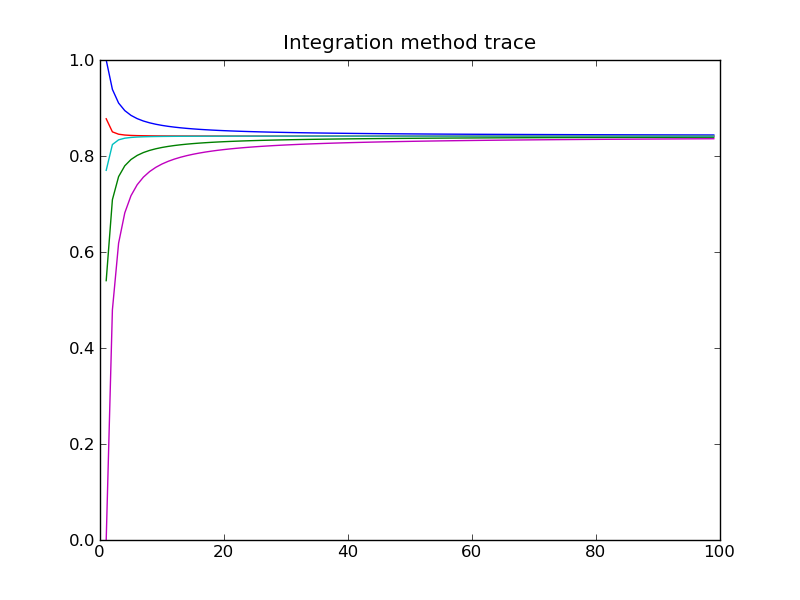
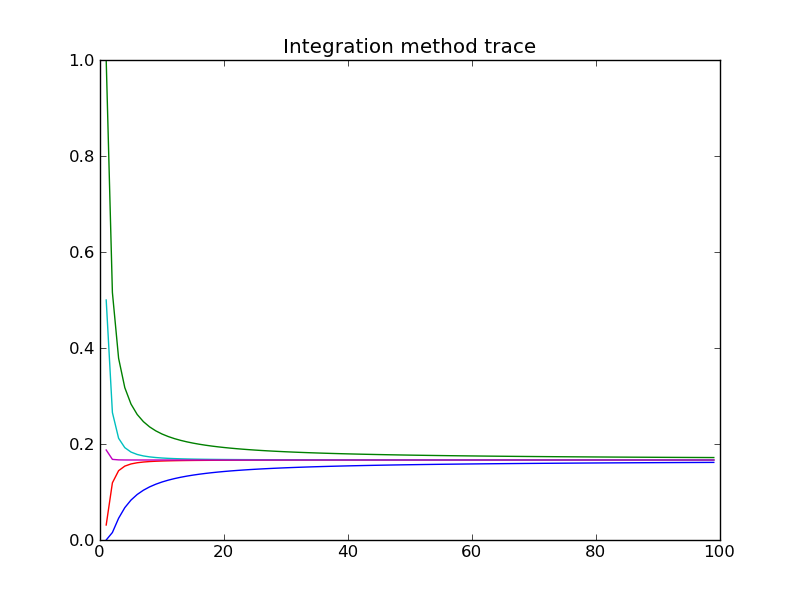
Amélioration des tests pour l'intégration

Changed region(s): [[0.125, 0.12, 0.9062, 0.9], [0.3438, 0.06, 0.6875, 0.09]]

diff --git a/src/integration.py b/src/integration.py
@@ -1,3 +1,5 @@
+# -*- coding:utf-8 -*-
+
 import numpy as np
 import scipy as sp
 import pylab as mp
@@ -5,7 +7,7 @@ import pylab as mp
 
 
 #------------------------------------------------#
-# FUNCTIONS :                                    #
+# FUNCTIONS WITH NUMBER OF POINTS :              #
 #------------------------------------------------#
 
 
@@ -49,22 +51,108 @@ def trapez_method(f, a, b, n):
 def simpson(f, a, b, n):
     h = (b - a)/n
     add = 0.
-    for k in np.arange(1,n):
+    for k in np.arange(1,n+1):
         add += (1./6.)*f(a+(k-1.)*h) + (2./3.)*f(a+(k-0.5)*h) + (1./6.)*(f(a+k*h))
     add *= h
     return add
 
 #------------------------------------------------#
+# FUNCTIONS WITH PRECISION :                     #
+#------------------------------------------------#
+
+def rectangle_method_left_eps(f, a, b, e):
+    
+    n = 1
+    h = (b - a)
+    I = f(a) * h
+    
+    I2n = I+1.
+    
+    while (abs(I2n - I) > e):
+        mem = I2n
+        I2n = 0.
+        for k in np.arange(0.,n):
+            I2n += f(a + k*h + h/2.)
+        h = h/2.
+        I2n *= h
+        I2n += I/2.
+        I = mem
+        n *= 2
+
+    print "N =", n
+    return I2n
+
+def rectangle_method_right_eps(f, a, b, e):
+    
+    n = 1
+    h = (b - a)
+    I = f(a) * h
+    
+    I2n = I+1.
+    
+    while (abs(I2n - I) > e):
+        mem = I2n
+        I2n = 0.
+        for k in np.arange(1,n+1):
+            I2n += f(a + k*h + h/2.)
+        h = h/2.
+        I2n *= h
+        I2n += I/2.
+        I = mem
+        n *= 2
+
+    print "N =", n
+    return I2n
+
+def rectangle_method_middle_eps(f, a, b, e):
+    
+    n = 1
+    h = (b - a)
+    I = f((b+a)/2) * h
+    
+    I2n = I+1.
+    
+    while (abs(I2n - I) > e):
+        mem = I2n
+        I2n = 0.
+        for k in np.arange(0.,n):
+            I2n += f(a + k*h + h/6.) + f(a + k*h + (5.*h)/6.)
+        h = h/3.
+        I2n *= h
+        I2n += I/3.
+        I = mem
+        n *= 3
+
+    print "N =", n
+    return I2n
+
+
+
+#------------------------------------------------#
 # TESTS :                                        #
 #------------------------------------------------#
 
-f = lambda(x): np.sqrt(1-np.sin(x)**2)
+#f = lambda(x): np.sqrt(1-x**2)
+f = lambda(x): x**5
+a = -0.5
+b = 1.
 
-print rectangle_method_left(f, 0., 1., 10.)
-print rectangle_method_right(f, 0., 1., 10.)
-print rectangle_method_middle(f, 0., 1., 10.)
-print trapez_method(f, 0., 1., 10.)
-print simpson(f, 0., 1., 10.)
+#real_value = np.pi/2
+real_value = (b**6/6. - a**6/6.)
+
+n = 1000.
+
+print "Valeur théorique :", real_value
+print rectangle_method_left(f, a, b, n)
+print rectangle_method_right(f, a, b, n)
+print rectangle_method_middle(f, a, b, n)
+print trapez_method(f, a, b, n)
+print simpson(f, a, b, n)
+
+eps = 1e-2
+#print "Méthode des rectangles (gauche) avec l'erreur :", rectangle_method_left_eps(f, a, b, eps)
+#print "Méthode des rectangles (droite) avec l'erreur :", rectangle_method_right_eps(f, a, b, eps)
+#print "Méthode des rectangles (milieu) avec l'erreur :", rectangle_method_middle_eps(f, a, b, eps)
 
 
 #------------------------------------------------#
@@ -105,6 +193,29 @@ def trace_integrals(f, a, b, nmax, l_fcts):
     mp.clf()
 
 
+def trace_errors(f, a, b, nmax, l_fcts, l_labels, real_value):
+    n = np.arange(2., nmax, 1.)
+    m = len(l_fcts)
+    errors = range(0)
+    
+    for k in np.arange(m):
+        errors.append(np.arange(nmax-2))
+        for j in np.arange(nmax-2):
+            errors[k][j] = abs(l_fcts[k](f, a, b, n[j]) - real_value)
+    mp.clf()
+    for l in range(m):
+        mp.plot(n, errors[l], label=l_labels[l])
+    mp.legend(loc='lower left')
+    mp.title('Error depending on integration methods')
+    mp.savefig("errors_integration.png")
+
+    mp.xscale('log')
+    mp.yscale('log')
+    mp.savefig("log_errors_integration.png")
+
+    mp.clf()
+
+
 
     
 l_fcts = (rectangle_method_left,
@@ -113,4 +224,13 @@ l_fcts = (rectangle_method_left,
           trapez_method,
           simpson)
 
+l_labels = ("rectangle_method_left",
+            "rectangle_method_right",
+            "rectangle_method_middle",
+            "trapez_method",
+            "simpson")
+
+
+n = 300.
 trace_integrals(f, 0., 1., 100., l_fcts)
+trace_errors(f, a, b, n, l_fcts, l_labels, real_value)
